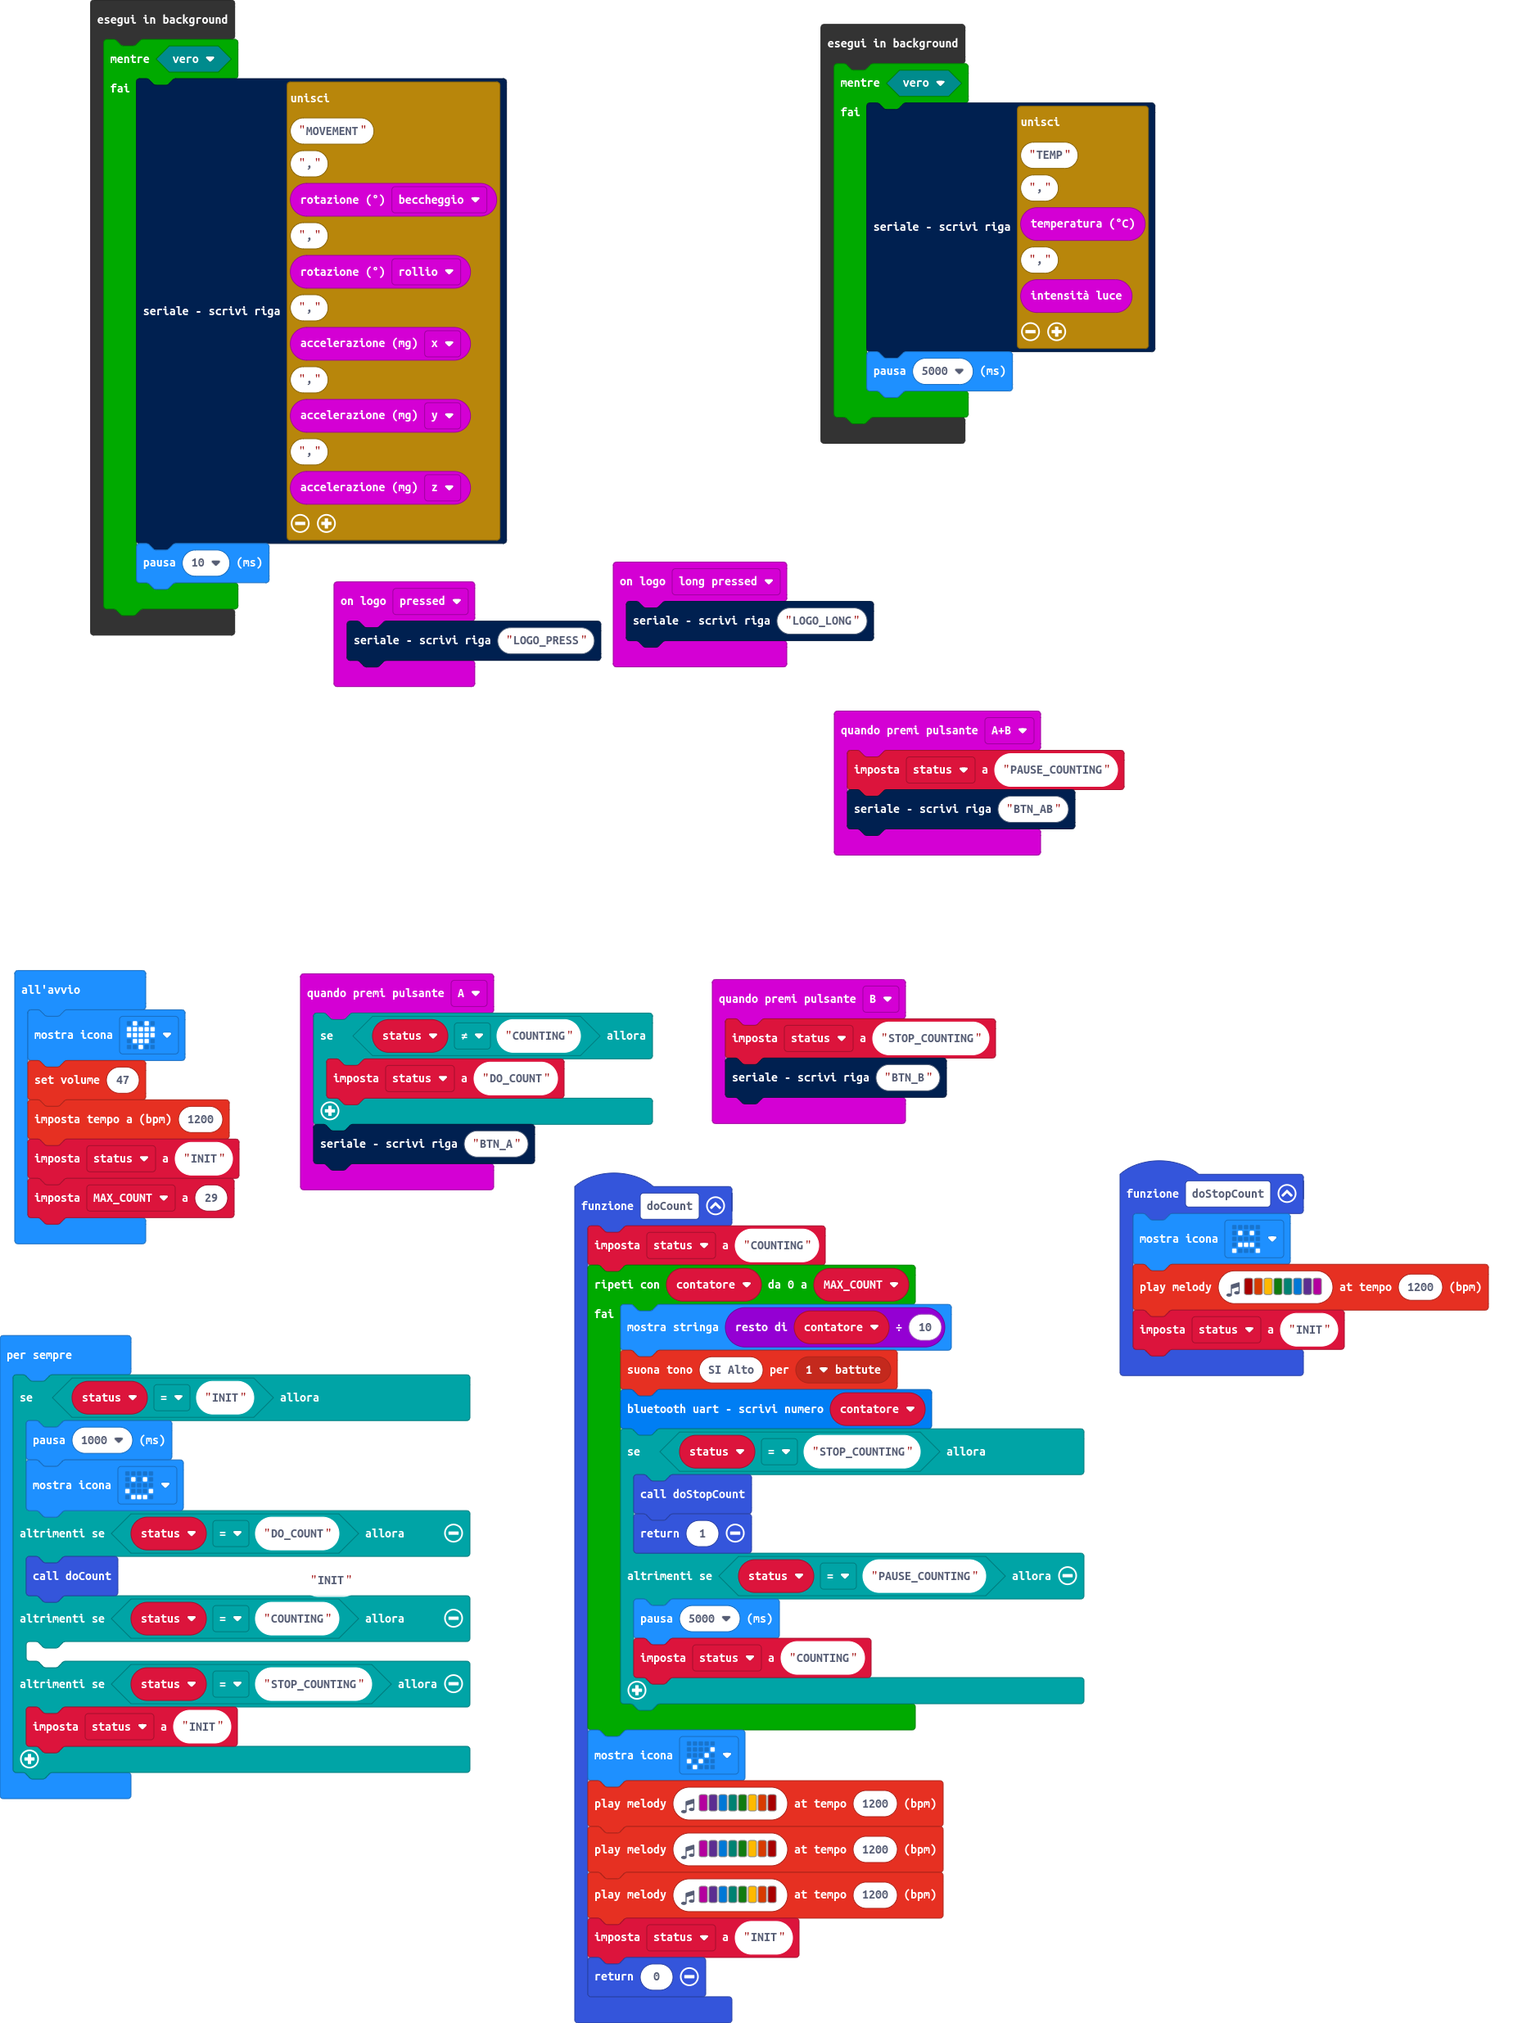
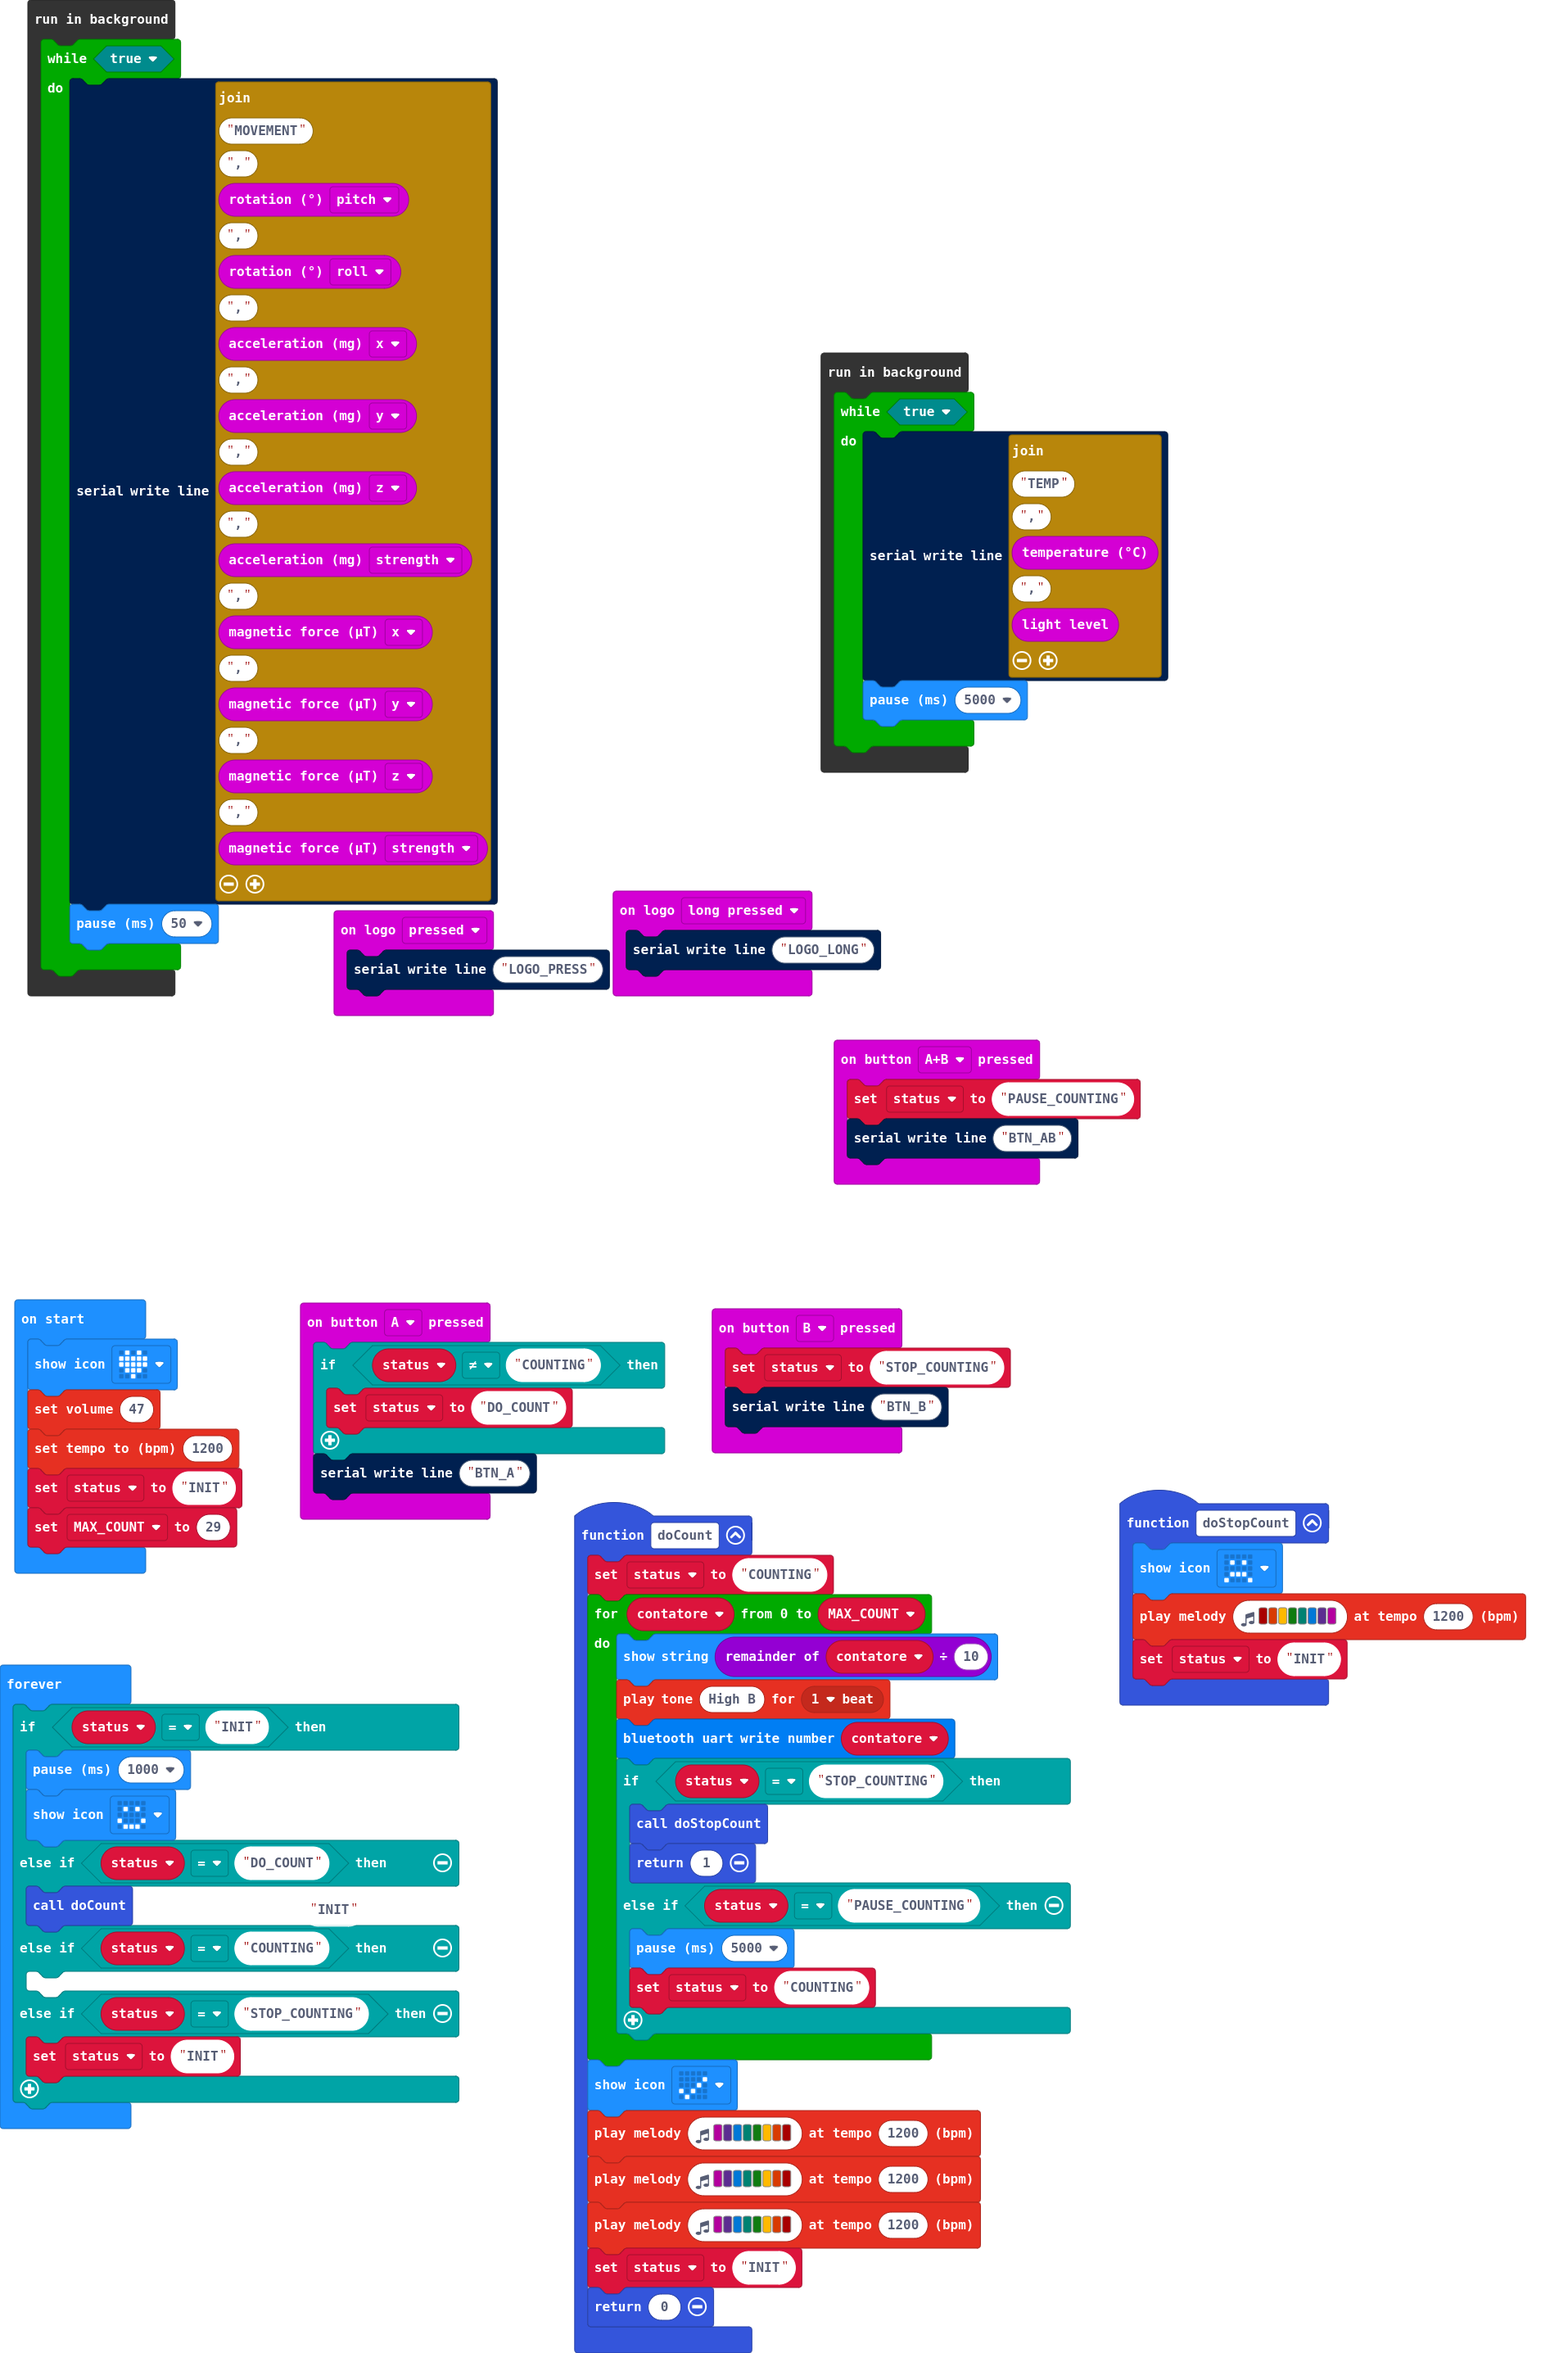
altri valori su seriale

diff --git a/main.ts b/main.ts
@@ -65,8 +65,8 @@ basic.forever(function () {
 })
 control.inBackground(function () {
     while (true) {
-        serial.writeLine("MOVEMENT" + "," + input.rotation(Rotation.Pitch) + "," + input.rotation(Rotation.Roll) + "," + input.acceleration(Dimension.X) + "," + input.acceleration(Dimension.Y) + "," + input.acceleration(Dimension.Z))
-        basic.pause(10)
+        serial.writeLine("MOVEMENT" + "," + input.rotation(Rotation.Pitch) + "," + input.rotation(Rotation.Roll) + "," + input.acceleration(Dimension.X) + "," + input.acceleration(Dimension.Y) + "," + input.acceleration(Dimension.Z) + "," + input.acceleration(Dimension.Strength) + "," + input.magneticForce(Dimension.X) + "," + input.magneticForce(Dimension.Y) + "," + input.magneticForce(Dimension.Z) + "," + input.magneticForce(Dimension.Strength))
+        basic.pause(50)
     }
 })
 control.inBackground(function () {
